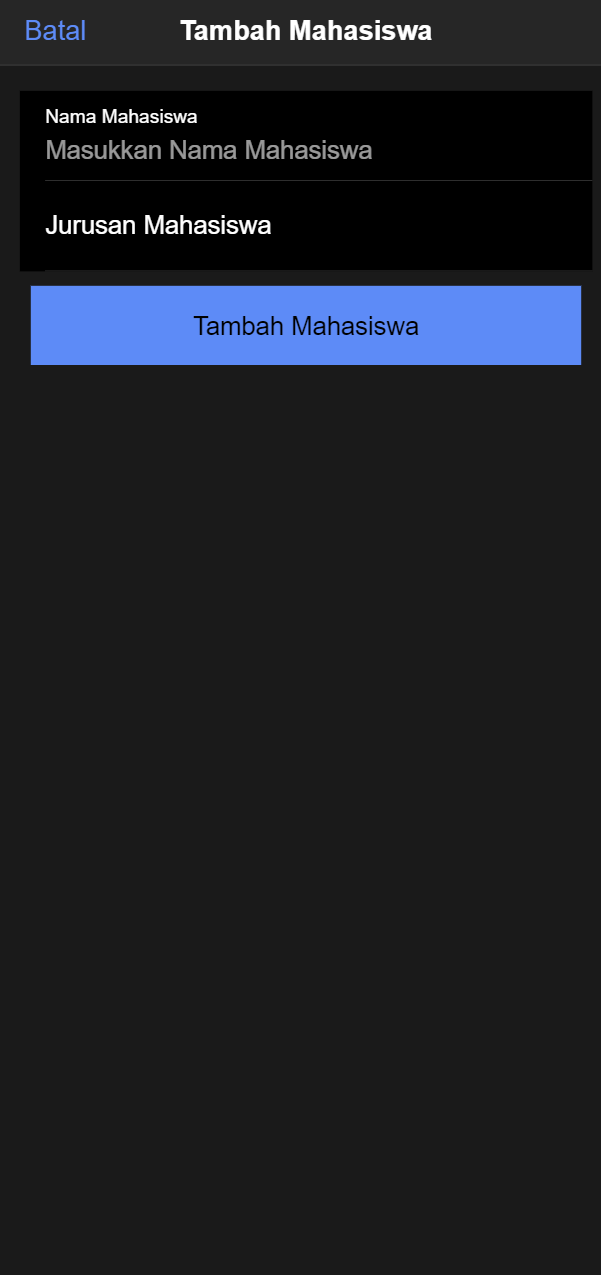
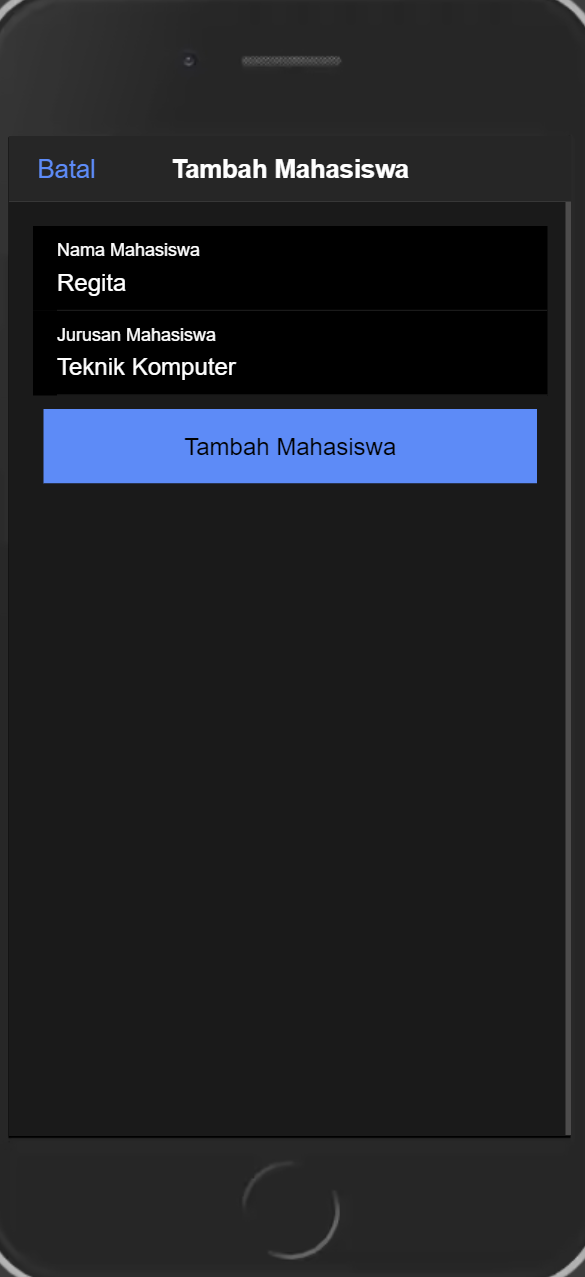
ganti ssan

diff --git a/README.md b/README.md
@@ -10,11 +10,13 @@ Method `getMahasiswa()` adalah fungsi yang dijalankan saat komponen dimuat perta
 
 ![Create](tambah.png)
 
+![ViewAfterCreate](viewtambah.png)
+
 Method `tambahMahasiswa()` digunakan untuk menambahkan data mahasiswa baru ke dalam sistem. Prosesnya dimulai dengan pengecekan apakah field `nama` dan `jurusan` sudah diisi; jika tidak, data tidak akan dikirim. Setelah validasi ini, dibuat objek `data` yang berisi `nama` dan `jurusan` yang diambil dari input pengguna. Objek ini kemudian dikirim sebagai permintaan POST ke endpoint `tambah.php` melalui `ApiService`. Jika penambahan data berhasil, beberapa tindakan dilakukan: form di-reset agar kosong kembali, data mahasiswa yang baru ditampilkan dimuat ulang, modal (dialog) ditutup, dan pesan sukses dicetak di konsol untuk memberi tahu bahwa proses berhasil. Namun, jika ada kesalahan dalam pengiriman atau jika field masih ada yang kosong, pesan error akan ditampilkan di konsol, memungkinkan pengguna atau pengembang untuk mengetahui ada kendala pada proses penambahan data.
 
 3. **Edit Data**
 
-![Edit](Edit.png)
+![Edit](edit.png)
 
 ![ViewAfterEdit](viewafteredit.png)
 
